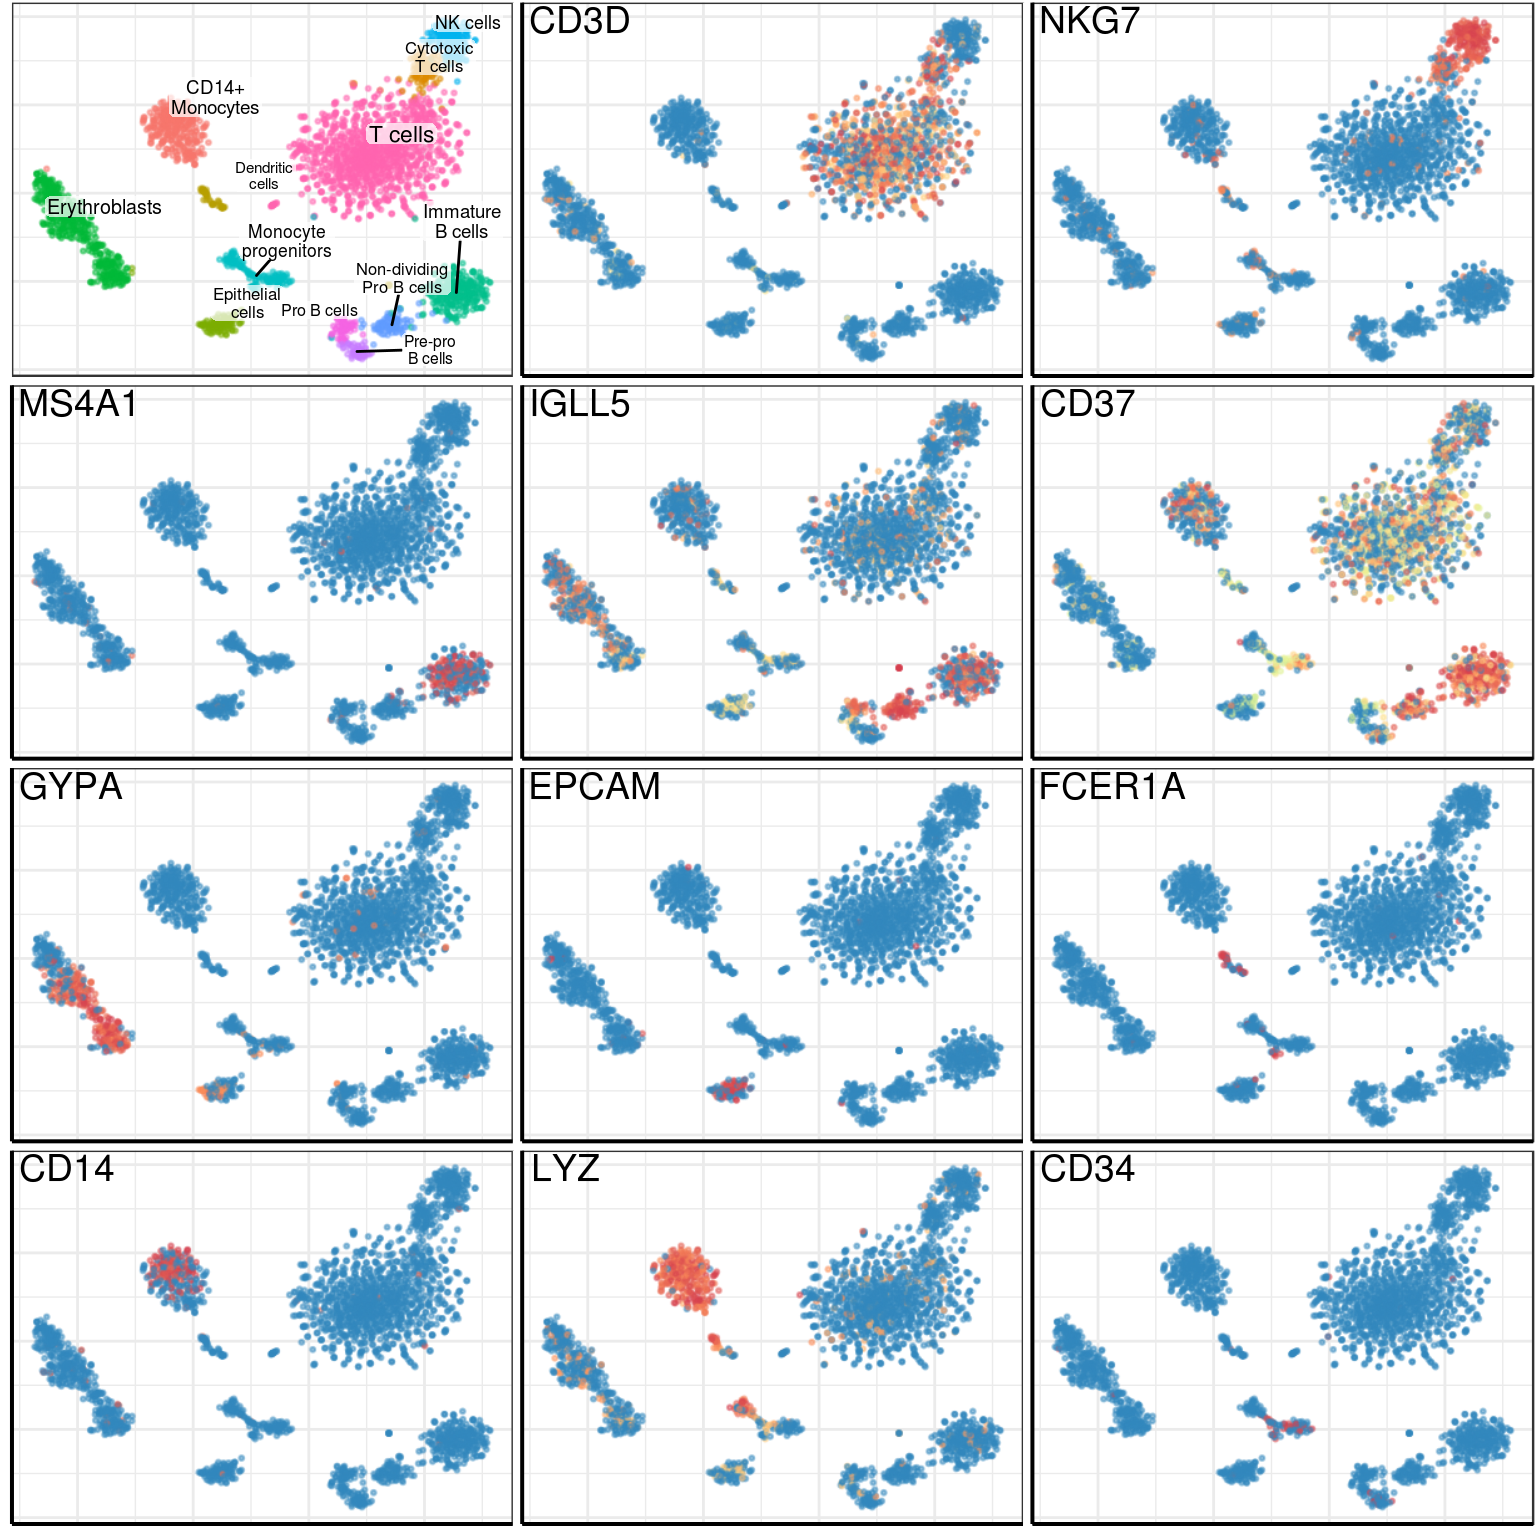
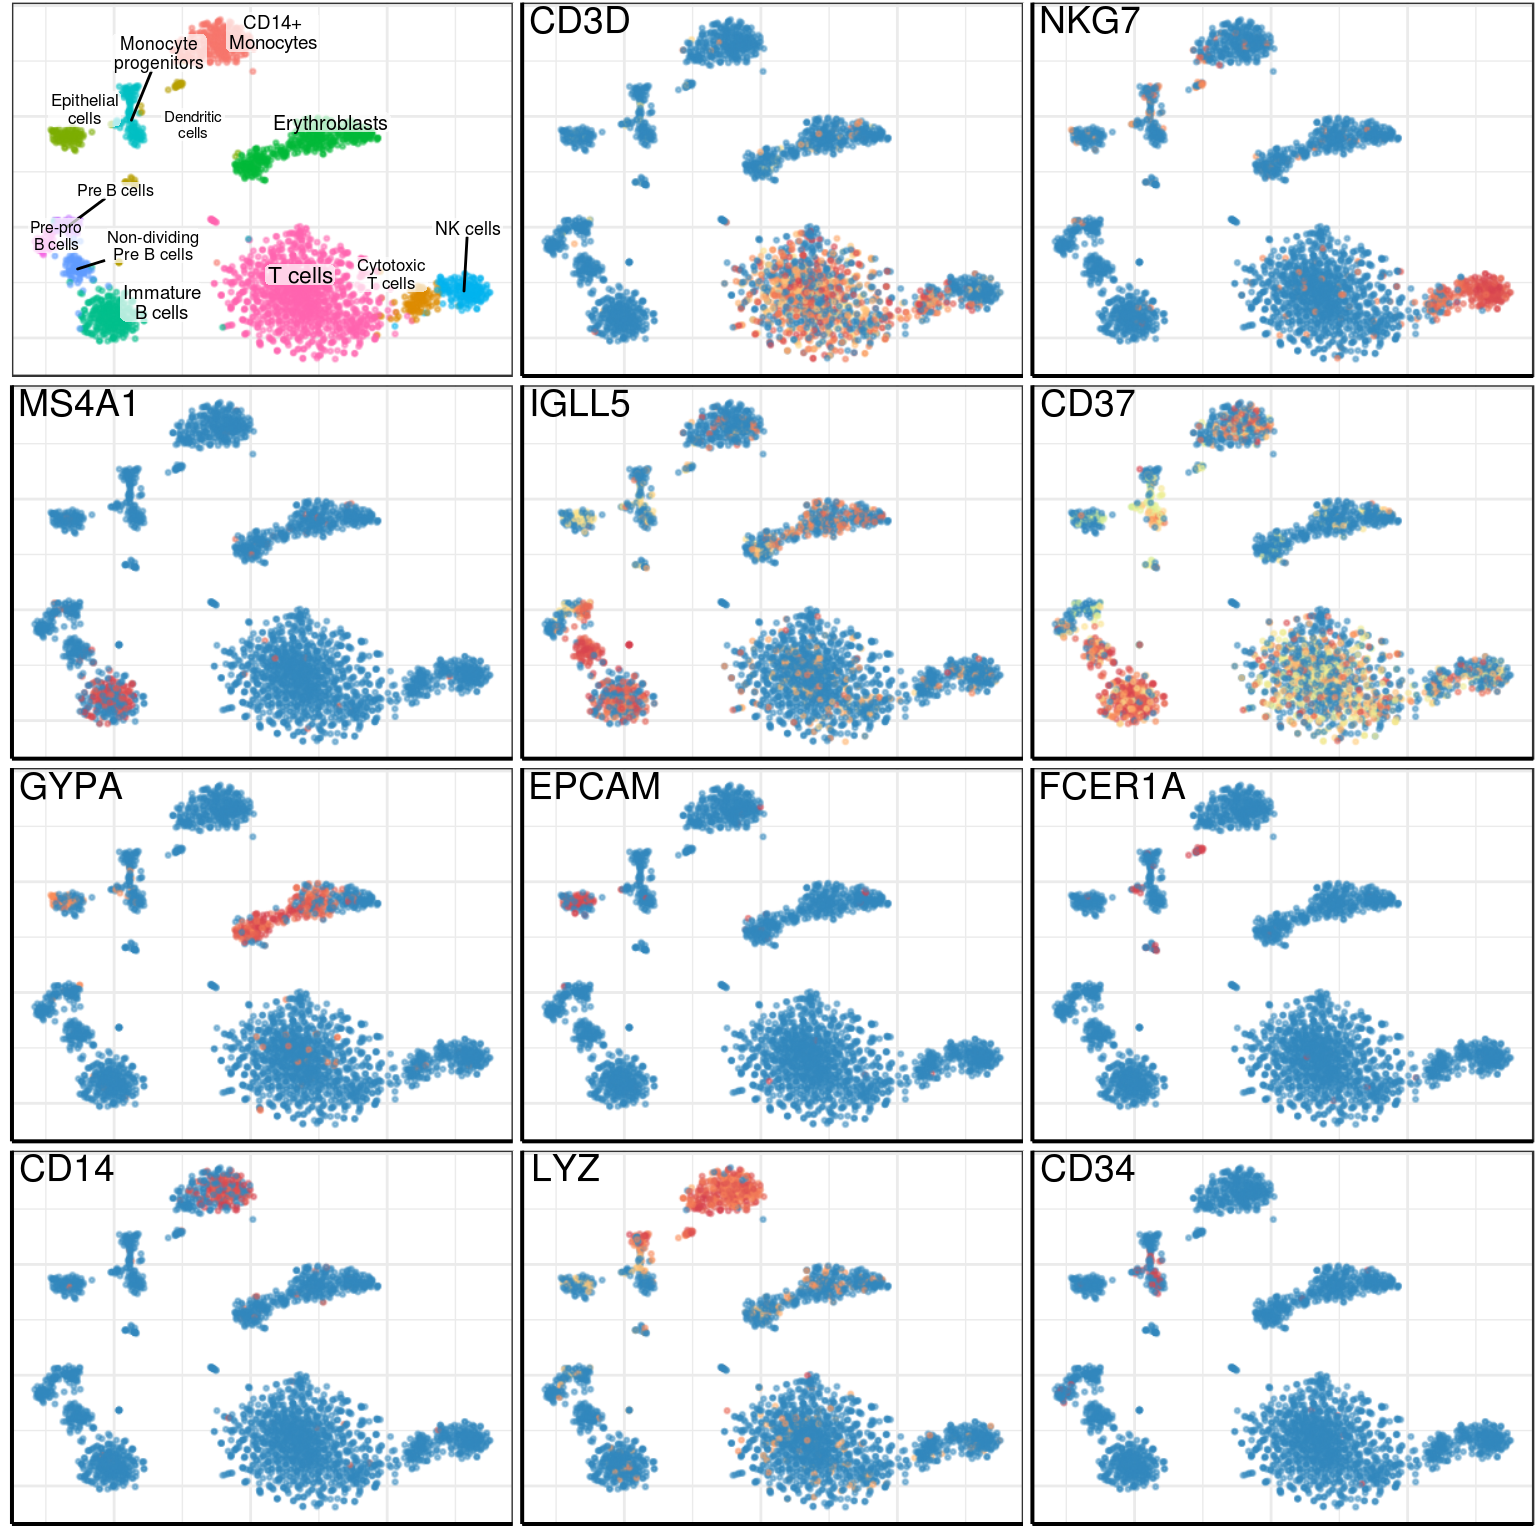
Updated BMMC1 annotation

diff --git a/docs/annotation__annotation_bmmc1.html b/docs/annotation__annotation_bmmc1.html
@@ -314,8 +314,22 @@ div.section {
 
 
 <p><strong>Source file:</strong> notebooks/annotation/annotation_bmmc1.Rmd</p>
-<p><strong>Last updated:</strong> 2018-03-09</p>
-<p><strong>Code version:</strong> 7b78a95</p>
+<p><strong>Last updated:</strong> 2018-03-11</p>
+<p><strong>Code version:</strong> 169f0b2</p>
+<pre class="r"><code>library(ggplot2)
+library(dplyr)
+library(dropestr)
+library(dropEstAnalysis)
+library(Matrix)
+
+theme_set(theme_base)
+
+set.seed(42)
+kDropEstData &lt;- &#39;../../data/dropest/10x/frozen_bmmc_healthy_donor1/&#39;
+kEstFolder &lt;- paste0(kDropEstData, &#39;est_11_10_umi_quality/&#39;)
+k10xFolder &lt;- paste0(kDropEstData, &#39;filtered_matrices_mex/hg19/&#39;)
+kAnnotationData &lt;- &#39;../../data/annotation/&#39;
+kOutputPath &lt;- &#39;../../output/&#39;</code></pre>
 <div id="read-data" class="section level2">
 <h2>Read data</h2>
 <p><a href="https://support.10xgenomics.com/single-cell-gene-expression/datasets/1.1.0/frozen_bmmc_healthy_donor1">Link to original dataset</a>.</p>
@@ -485,7 +499,7 @@ heatmap_clusters &lt;- clusters[clusters %in% type_ids$`B cells`]
 PlotExpressionHeatmap(log_mtx, heatmap_clusters, heatmap_genes)</code></pre>
 <p><img src="figure/annotation_bmmc1.Rmd/unnamed-chunk-11-1.png" width="480" style="display: block; margin: auto;" /></p>
 <pre class="r"><code>b_markers_df &lt;- data.frame(
-  Type = c(&quot;Immature B cells&quot;, &quot;Pre-pro B cells&quot;, &quot;Pro B cells&quot;, &quot;Non-dividing Pro B cells&quot;),
+  Type = c(&quot;Immature B cells&quot;, &quot;Pre-pro B cells&quot;, &quot;Pre B cells&quot;, &quot;Non-dividing Pre B cells&quot;),
   Markers = c(&quot;MS4A1 (CD20), CD40, IL4R, IL7R-&quot;, &quot;CD34, CD38, MME (CD10), CD24-, IL7R-&quot;, 
               &quot;CD34-, CD40-, IL7R+, IL4R-, CD19+&quot;, &quot;CD34, IGLL5&quot;)
 )
@@ -493,8 +507,8 @@ PlotExpressionHeatmap(log_mtx, heatmap_clusters, heatmap_genes)</code></pre>
 type_ids &lt;- c(type_ids, lst(
   `Immature B cells` = c(3),
   `Pre-pro B cells` = c(13),
-  `Non-dividing Pro B cells` = c(10),
-  `Pro B cells` = c(12)
+  `Non-dividing Pre B cells` = c(10),
+  `Pre B cells` = c(12)
   ))
 
 type_ids$`B cells` &lt;- NULL
@@ -522,21 +536,18 @@ b_markers_df</code></pre>
 <td align="left">13</td>
 </tr>
 <tr class="odd">
-<td align="left">Pro B cells</td>
+<td align="left">Pre B cells</td>
 <td align="left">CD34-, CD40-, IL7R+, IL4R-, CD19+</td>
 <td align="left">12</td>
 </tr>
 <tr class="even">
-<td align="left">Non-dividing Pro B cells</td>
+<td align="left">Non-dividing Pre B cells</td>
 <td align="left">CD34, IGLL5</td>
 <td align="left">10</td>
 </tr>
 </tbody>
 </table>
 </div>
-<pre class="r"><code>clusters_annotated &lt;- AnnotateClusters(clusters, type_ids)
-PlotClustering(pgd, clusters_annotated)</code></pre>
-<p><img src="figure/annotation_bmmc1.Rmd/unnamed-chunk-13-1.png" width="576" style="display: block; margin: auto;" /></p>
 </div>
 <div id="t-cells" class="section level2">
 <h2>T cells</h2>
@@ -545,7 +556,7 @@ PlotClustering(pgd, clusters_annotated)</code></pre>
 
 heatmap_clusters &lt;- clusters[clusters %in% type_ids$`T cells`]
 PlotExpressionHeatmap(log_mtx, heatmap_clusters, heatmap_genes)</code></pre>
-<p><img src="figure/annotation_bmmc1.Rmd/unnamed-chunk-14-1.png" width="576" style="display: block; margin: auto;" /></p>
+<p><img src="figure/annotation_bmmc1.Rmd/unnamed-chunk-13-1.png" width="576" style="display: block; margin: auto;" /></p>
 <pre class="r"><code>t_markers_df &lt;- data.frame(
   Type = c(&quot;Cytotoxic T cells&quot;, &quot;T cells&quot;),
   Markers = c(&quot;NKG7, GZMA, GZMH, GZMK&quot;, &quot;CD3E, CD8B, IL7R&quot;)
@@ -582,6 +593,10 @@ t_markers_df</code></pre>
 </tbody>
 </table>
 </div>
+<pre class="r"><code>clusters_annotated &lt;- AnnotateClusters(clusters, type_ids)
+write.csv(data.frame(Barcode=names(clusters_annotated), 
+                     Type=as.vector(clusters_annotated)), 
+          paste0(kAnnotationData, &#39;bmmc1_clusters_annotated.csv&#39;))</code></pre>
 </div>
 <div id="all-markers" class="section level2">
 <h2>All markers</h2>
@@ -660,12 +675,12 @@ all_markers_df</code></pre>
 <td align="left">13</td>
 </tr>
 <tr class="odd">
-<td align="left">Pro B cells</td>
+<td align="left">Pre B cells</td>
 <td align="left">CD34-, CD40-, IL7R+, IL4R-, CD19+</td>
 <td align="left">12</td>
 </tr>
 <tr class="even">
-<td align="left">Non-dividing Pro B cells</td>
+<td align="left">Non-dividing Pre B cells</td>
 <td align="left">CD34, IGLL5</td>
 <td align="left">10</td>
 </tr>
@@ -683,7 +698,7 @@ raster_dpi &lt;- 150
 clusters_annotated &lt;- AnnotateClusters(clusters, type_ids)
 plot_clusters_annotated &lt;- clusters_annotated
 
-long_type_names &lt;- c(&quot;CD14+ Monocytes&quot;, &quot;Non-dividing Pro B cells&quot;, &quot;Monocyte progenitors&quot;, 
+long_type_names &lt;- c(&quot;CD14+ Monocytes&quot;, &quot;Non-dividing Pre B cells&quot;, &quot;Monocyte progenitors&quot;, 
                      &quot;Epithelial cells&quot;, &quot;Cytotoxic T cells&quot;, &quot;Immature B cells&quot;, 
                      &quot;Dendritic cells&quot;, &quot;Pre-pro B cells&quot;)
 for (type in long_type_names) {
@@ -711,9 +726,6 @@ gene_plots &lt;- c(list(gg_annotated), gene_plots)</code></pre>
 <pre class="r"><code>gg_fig</code></pre>
 <p><img src="figure/annotation_bmmc1.Rmd/unnamed-chunk-21-1.png" width="768" style="display: block; margin: auto;" /></p>
 <pre class="r"><code>ggsave(paste0(kOutputPath, &#39;figures/supp_annotation_bmmc1.pdf&#39;), width=8, height=8)</code></pre>
-<pre class="r"><code>write.csv(data.frame(Barcode=names(clusters_annotated), 
-                     Type=as.vector(clusters_annotated)), 
-          paste0(kAnnotationData, &#39;bmmc1_clusters_annotated.csv&#39;))</code></pre>
 </div>
 <div id="session-information" class="section level2">
 <h2>Session information</h2>
@@ -756,7 +768,7 @@ gene_plots &lt;- c(list(gg_annotated), gene_plots)</code></pre>
 </tr>
 <tr class="even">
 <td>date</td>
-<td align="left">2018-03-09</td>
+<td align="left">2018-03-11</td>
 </tr>
 </tbody>
 </table>
@@ -924,7 +936,7 @@ gene_plots &lt;- c(list(gg_annotated), gene_plots)</code></pre>
 <td>25</td>
 <td align="left">dropestr</td>
 <td align="left">0.7.6</td>
-<td align="left">2018-02-26</td>
+<td align="left">2018-03-10</td>
 <td align="left">local (<span class="citation">@0.7.6</span>)</td>
 </tr>
 <tr class="odd">
